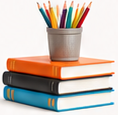
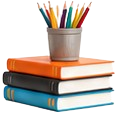
Fix AJAX unauthorized issue by passing X-WP-Nonce header

diff --git a/functions-wpbakery-elements.php b/functions-wpbakery-elements.php
@@ -7056,6 +7056,9 @@ function idl_loader_parents_club_member_coins_shortcode( $atts ) {
                         url: endpoint,
                         method: 'GET',
                         dataType: 'json',
+                        headers: {
+                            'X-WP-Nonce': '<?php echo esc_js( wp_create_nonce( 'wp_rest' ) ); ?>'
+                        },
                         success: function(response) {
                             if (response && response.success) {
                                 // Update Coins Card Total Balance

diff --git a/CHANGELOG.md b/CHANGELOG.md
@@ -9,6 +9,10 @@ All notable changes to this project will be documented in this file for both hum
   - Registered a new endpoint `/wp-json/idl-parents-club/v1/dashboard-data` in [functions-restapi.php](file:///wp-content/plugins/idl-loader/functions-restapi.php) to retrieve all dynamic eMathSmart student list data and WooCommerce coins balance in a single JSON response.
   - Whitelisted this endpoint inside the `rest_authentication_errors` filter to bypass OAuth token checks while preserving standard cookie/browser-session authentication.
 
+### Fixed
+- **AJAX Authentication**:
+  - Added the `X-WP-Nonce` header to the dashboard client-side AJAX request inside the `parents_club_member_coins` shortcode template in [functions-wpbakery-elements.php](file:///wp-content/plugins/idl-loader/functions-wpbakery-elements.php) to authenticate cookie sessions for REST API requests.
+
 ### Changed
 - **WPBakery Elements**:
   - Modified the shortcode handlers `parents_club_member_coins`, `parents_club_member_account_overview`, and `parents_club_member_subscription` in [functions-wpbakery-elements.php](file:///wp-content/plugins/idl-loader/functions-wpbakery-elements.php) to render lightweight pulse skeleton loaders on the server-side instead of performing slow, blocking backend HTTP API calls.